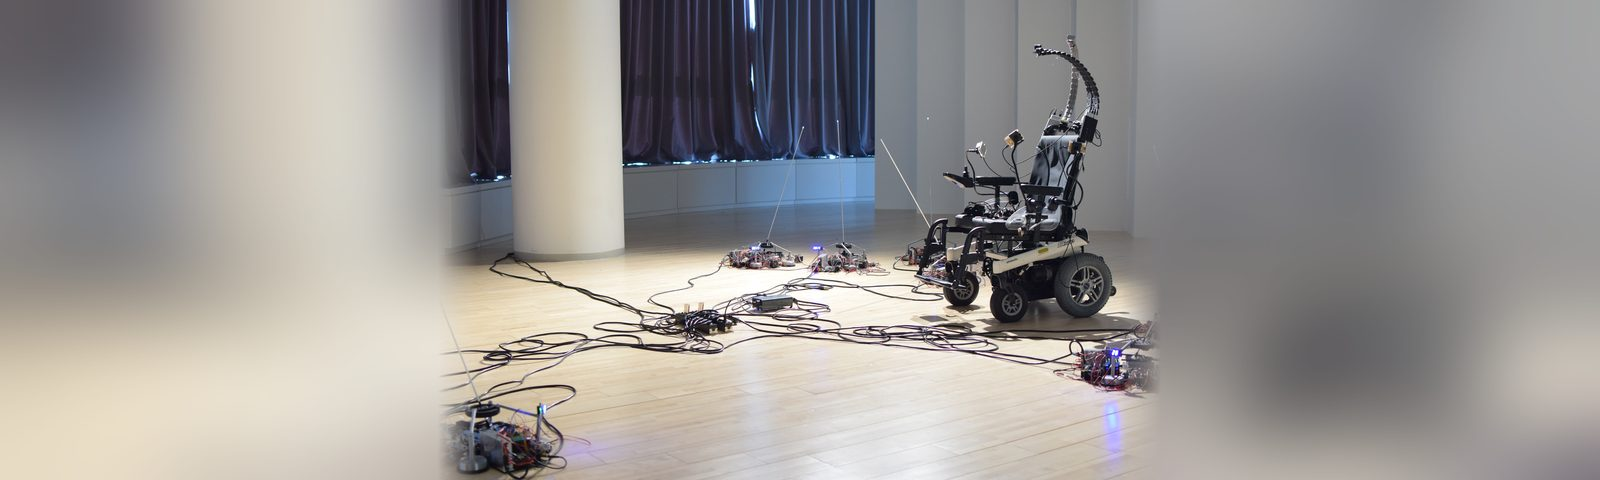
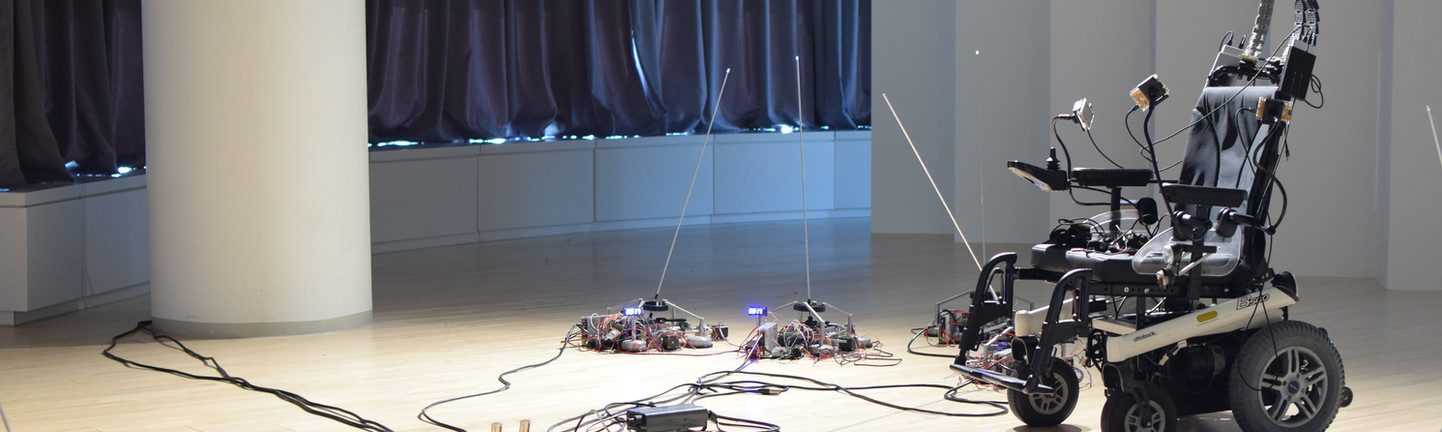
Revert "메인 대표 사진: 대상 전체가 보이게(하이웨이투헬·광초·센서리릴레이·퍼포밍수트01/02·드로잉수트02)"
This reverts commit 9d63a74c5078771d9fa55cefa848e5a1efd34c24.

diff --git a/index.html b/index.html
@@ -20,16 +20,16 @@ if (screen.width < 768) document.querySelector('meta[name=viewport]').setAttribu
 <button class="m-top" aria-label="맨 위로"><svg viewBox="0 0 44 44" aria-hidden="true"><path d="M44 0H0v44h44" style="stroke-width:1"/><path d="M30.588 27.233L22 18.366l-8.588 8.867-1.078-1.043L22 16.21l9.666 9.98-1.078 1.043z" style="stroke-width:1.5"/></svg></button>
 <main id="main" class="c home">
 <div class="strips">
-  <a class="strip" href="highway-to-hell.html"><img src="assets/img/home/highway-to-hell.jpg?v=3" width="1600" height="480" alt="Highway to Hell: 사라질 기계들을 위한 마지막 파티" decoding="async"><span class="cap"><span class="t">Highway to Hell: 사라질 기계들을 위한 마지막 파티</span><span class="y">2026</span></span></a>
-  <a class="strip" href="lightgrass-01.html"><img src="assets/img/home/lightgrass-01.jpg?v=3" width="1600" height="480" alt="Lightgrass 01" decoding="async"><span class="cap"><span class="t">Lightgrass 01</span><span class="y">2025</span></span></a>
-  <a class="strip" href="susu-sangseung.html"><img src="assets/img/home/susu-sangseung.jpg?v=3" width="1600" height="480" alt="수수상승 흑환재생 手手相承 黑環再生" loading="lazy" decoding="async"><span class="cap"><span class="t">수수상승 흑환재생 手手相承 黑環再生</span><span class="y">2025</span></span></a>
-  <a class="strip" href="sensory-relay-01.html"><img src="assets/img/home/sensory-relay-01.jpg?v=3" width="1600" height="480" alt="Sensory Relay 01" loading="lazy" decoding="async"><span class="cap"><span class="t">Sensory Relay 01</span><span class="y">2024</span></span></a>
-  <a class="strip" href="drawing-suit-01-02.html"><img src="assets/img/home/drawing-suit-01-02.jpg?v=3" width="1600" height="480" alt="Drawing Suit 01_02" loading="lazy" decoding="async"><span class="cap"><span class="t">Drawing Suit 01_02</span><span class="y">2024</span></span></a>
-  <a class="strip" href="performing-suit-02.html"><img src="assets/img/home/performing-suit-02.jpg?v=3" width="1600" height="480" alt="Performing Suit 02" loading="lazy" decoding="async"><span class="cap"><span class="t">Performing Suit 02</span><span class="y">2023</span></span></a>
-  <a class="strip" href="performing-suit-01.html"><img src="assets/img/home/performing-suit-01.jpg?v=3" width="1600" height="480" alt="Performing Suit 01" loading="lazy" decoding="async"><span class="cap"><span class="t">Performing Suit 01</span><span class="y">2022</span></span></a>
-  <a class="strip" href="drawing-suit-02.html"><img src="assets/img/home/drawing-suit-02.jpg?v=3" width="1600" height="480" alt="Drawing Suit 02" loading="lazy" decoding="async"><span class="cap"><span class="t">Drawing Suit 02</span><span class="y">2022</span></span></a>
-  <a class="strip" href="drawing-suit-01.html"><img src="assets/img/home/drawing-suit-01.jpg?v=3" width="1600" height="480" alt="Drawing Suit 01" loading="lazy" decoding="async"><span class="cap"><span class="t">Drawing Suit 01</span><span class="y">2021</span></span></a>
-  <a class="strip" href="memory.html"><img src="assets/img/home/memory.jpg?v=3" width="1600" height="480" alt="Works" loading="lazy" decoding="async"><span class="cap"><span class="t">2013-2020</span><span class="y">20 works</span></span></a>
+  <a class="strip" href="highway-to-hell.html"><img src="assets/img/home/highway-to-hell.jpg?v=2" width="1600" height="480" alt="Highway to Hell: 사라질 기계들을 위한 마지막 파티" decoding="async"><span class="cap"><span class="t">Highway to Hell: 사라질 기계들을 위한 마지막 파티</span><span class="y">2026</span></span></a>
+  <a class="strip" href="lightgrass-01.html"><img src="assets/img/home/lightgrass-01.jpg?v=2" width="1600" height="480" alt="Lightgrass 01" decoding="async"><span class="cap"><span class="t">Lightgrass 01</span><span class="y">2025</span></span></a>
+  <a class="strip" href="susu-sangseung.html"><img src="assets/img/home/susu-sangseung.jpg?v=2" width="1600" height="480" alt="수수상승 흑환재생 手手相承 黑環再生" loading="lazy" decoding="async"><span class="cap"><span class="t">수수상승 흑환재생 手手相承 黑環再生</span><span class="y">2025</span></span></a>
+  <a class="strip" href="sensory-relay-01.html"><img src="assets/img/home/sensory-relay-01.jpg?v=2" width="1600" height="480" alt="Sensory Relay 01" loading="lazy" decoding="async"><span class="cap"><span class="t">Sensory Relay 01</span><span class="y">2024</span></span></a>
+  <a class="strip" href="drawing-suit-01-02.html"><img src="assets/img/home/drawing-suit-01-02.jpg?v=2" width="1600" height="480" alt="Drawing Suit 01_02" loading="lazy" decoding="async"><span class="cap"><span class="t">Drawing Suit 01_02</span><span class="y">2024</span></span></a>
+  <a class="strip" href="performing-suit-02.html"><img src="assets/img/home/performing-suit-02.jpg?v=2" width="1600" height="480" alt="Performing Suit 02" loading="lazy" decoding="async"><span class="cap"><span class="t">Performing Suit 02</span><span class="y">2023</span></span></a>
+  <a class="strip" href="performing-suit-01.html"><img src="assets/img/home/performing-suit-01.jpg?v=2" width="1600" height="480" alt="Performing Suit 01" loading="lazy" decoding="async"><span class="cap"><span class="t">Performing Suit 01</span><span class="y">2022</span></span></a>
+  <a class="strip" href="drawing-suit-02.html"><img src="assets/img/home/drawing-suit-02.jpg?v=2" width="1600" height="480" alt="Drawing Suit 02" loading="lazy" decoding="async"><span class="cap"><span class="t">Drawing Suit 02</span><span class="y">2022</span></span></a>
+  <a class="strip" href="drawing-suit-01.html"><img src="assets/img/home/drawing-suit-01.jpg?v=2" width="1600" height="480" alt="Drawing Suit 01" loading="lazy" decoding="async"><span class="cap"><span class="t">Drawing Suit 01</span><span class="y">2021</span></span></a>
+  <a class="strip" href="memory.html"><img src="assets/img/home/memory.jpg?v=2" width="1600" height="480" alt="Works" loading="lazy" decoding="async"><span class="cap"><span class="t">2013-2020</span><span class="y">20 works</span></span></a>
 </div>
 </main>
 <script src="assets/js/site.js?v=aee454e1"></script>

diff --git a/_build/custom/index.html b/_build/custom/index.html
@@ -1,12 +1,12 @@
 <div class="strips">
-  <a class="strip" href="highway-to-hell.html"><img src="assets/img/home/highway-to-hell.jpg?v=3" width="1600" height="480" alt="Highway to Hell: 사라질 기계들을 위한 마지막 파티" decoding="async"><span class="cap"><span class="t">Highway to Hell: 사라질 기계들을 위한 마지막 파티</span><span class="y">2026</span></span></a>
-  <a class="strip" href="lightgrass-01.html"><img src="assets/img/home/lightgrass-01.jpg?v=3" width="1600" height="480" alt="Lightgrass 01" decoding="async"><span class="cap"><span class="t">Lightgrass 01</span><span class="y">2025</span></span></a>
-  <a class="strip" href="susu-sangseung.html"><img src="assets/img/home/susu-sangseung.jpg?v=3" width="1600" height="480" alt="수수상승 흑환재생 手手相承 黑環再生" loading="lazy" decoding="async"><span class="cap"><span class="t">수수상승 흑환재생 手手相承 黑環再生</span><span class="y">2025</span></span></a>
-  <a class="strip" href="sensory-relay-01.html"><img src="assets/img/home/sensory-relay-01.jpg?v=3" width="1600" height="480" alt="Sensory Relay 01" loading="lazy" decoding="async"><span class="cap"><span class="t">Sensory Relay 01</span><span class="y">2024</span></span></a>
-  <a class="strip" href="drawing-suit-01-02.html"><img src="assets/img/home/drawing-suit-01-02.jpg?v=3" width="1600" height="480" alt="Drawing Suit 01_02" loading="lazy" decoding="async"><span class="cap"><span class="t">Drawing Suit 01_02</span><span class="y">2024</span></span></a>
-  <a class="strip" href="performing-suit-02.html"><img src="assets/img/home/performing-suit-02.jpg?v=3" width="1600" height="480" alt="Performing Suit 02" loading="lazy" decoding="async"><span class="cap"><span class="t">Performing Suit 02</span><span class="y">2023</span></span></a>
-  <a class="strip" href="performing-suit-01.html"><img src="assets/img/home/performing-suit-01.jpg?v=3" width="1600" height="480" alt="Performing Suit 01" loading="lazy" decoding="async"><span class="cap"><span class="t">Performing Suit 01</span><span class="y">2022</span></span></a>
-  <a class="strip" href="drawing-suit-02.html"><img src="assets/img/home/drawing-suit-02.jpg?v=3" width="1600" height="480" alt="Drawing Suit 02" loading="lazy" decoding="async"><span class="cap"><span class="t">Drawing Suit 02</span><span class="y">2022</span></span></a>
-  <a class="strip" href="drawing-suit-01.html"><img src="assets/img/home/drawing-suit-01.jpg?v=3" width="1600" height="480" alt="Drawing Suit 01" loading="lazy" decoding="async"><span class="cap"><span class="t">Drawing Suit 01</span><span class="y">2021</span></span></a>
-  <a class="strip" href="memory.html"><img src="assets/img/home/memory.jpg?v=3" width="1600" height="480" alt="Works" loading="lazy" decoding="async"><span class="cap"><span class="t">2013-2020</span><span class="y">20 works</span></span></a>
+  <a class="strip" href="highway-to-hell.html"><img src="assets/img/home/highway-to-hell.jpg?v=2" width="1600" height="480" alt="Highway to Hell: 사라질 기계들을 위한 마지막 파티" decoding="async"><span class="cap"><span class="t">Highway to Hell: 사라질 기계들을 위한 마지막 파티</span><span class="y">2026</span></span></a>
+  <a class="strip" href="lightgrass-01.html"><img src="assets/img/home/lightgrass-01.jpg?v=2" width="1600" height="480" alt="Lightgrass 01" decoding="async"><span class="cap"><span class="t">Lightgrass 01</span><span class="y">2025</span></span></a>
+  <a class="strip" href="susu-sangseung.html"><img src="assets/img/home/susu-sangseung.jpg?v=2" width="1600" height="480" alt="수수상승 흑환재생 手手相承 黑環再生" loading="lazy" decoding="async"><span class="cap"><span class="t">수수상승 흑환재생 手手相承 黑環再生</span><span class="y">2025</span></span></a>
+  <a class="strip" href="sensory-relay-01.html"><img src="assets/img/home/sensory-relay-01.jpg?v=2" width="1600" height="480" alt="Sensory Relay 01" loading="lazy" decoding="async"><span class="cap"><span class="t">Sensory Relay 01</span><span class="y">2024</span></span></a>
+  <a class="strip" href="drawing-suit-01-02.html"><img src="assets/img/home/drawing-suit-01-02.jpg?v=2" width="1600" height="480" alt="Drawing Suit 01_02" loading="lazy" decoding="async"><span class="cap"><span class="t">Drawing Suit 01_02</span><span class="y">2024</span></span></a>
+  <a class="strip" href="performing-suit-02.html"><img src="assets/img/home/performing-suit-02.jpg?v=2" width="1600" height="480" alt="Performing Suit 02" loading="lazy" decoding="async"><span class="cap"><span class="t">Performing Suit 02</span><span class="y">2023</span></span></a>
+  <a class="strip" href="performing-suit-01.html"><img src="assets/img/home/performing-suit-01.jpg?v=2" width="1600" height="480" alt="Performing Suit 01" loading="lazy" decoding="async"><span class="cap"><span class="t">Performing Suit 01</span><span class="y">2022</span></span></a>
+  <a class="strip" href="drawing-suit-02.html"><img src="assets/img/home/drawing-suit-02.jpg?v=2" width="1600" height="480" alt="Drawing Suit 02" loading="lazy" decoding="async"><span class="cap"><span class="t">Drawing Suit 02</span><span class="y">2022</span></span></a>
+  <a class="strip" href="drawing-suit-01.html"><img src="assets/img/home/drawing-suit-01.jpg?v=2" width="1600" height="480" alt="Drawing Suit 01" loading="lazy" decoding="async"><span class="cap"><span class="t">Drawing Suit 01</span><span class="y">2021</span></span></a>
+  <a class="strip" href="memory.html"><img src="assets/img/home/memory.jpg?v=2" width="1600" height="480" alt="Works" loading="lazy" decoding="async"><span class="cap"><span class="t">2013-2020</span><span class="y">20 works</span></span></a>
 </div>
